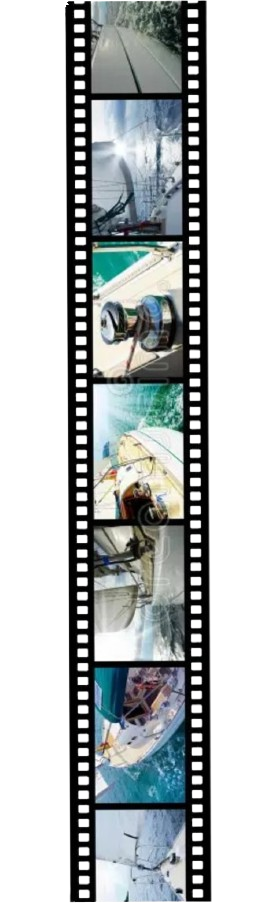
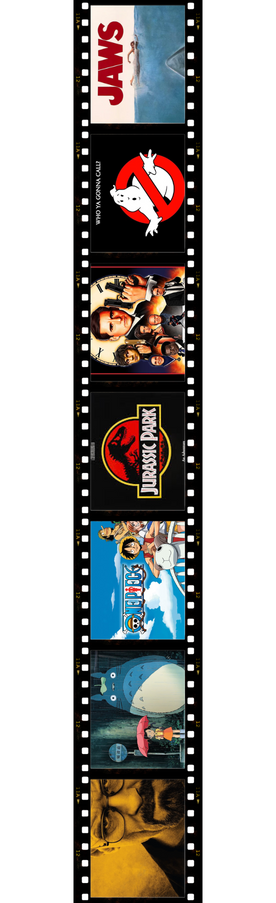
changed film strips, added popups, removed register.php gn isa ko nalang sa login.php para ndi na mag link sa register.php

diff --git a/css/pages/login.css b/css/pages/login.css
@@ -88,35 +88,51 @@ body {
 }
 
 .film-container {
-  position: absolute;
-  top: 0;
-  left: 0;
-  right: 0;
-  bottom: 0;
-  width: 100%;
-  height: 100%;
-  overflow: hidden;
-  z-index: 1;
-  pointer-events: none;
-}
+      overflow: hidden; /* Ensure strips don't cause scrollbars */
+    }
 
-.film-strip {
-  position: absolute;
-  width: 400px;
-  height: 400%;
-  background: url(../../assets/figmastrips.png) repeat-y;
-  background-size: 100% auto;
-  opacity: 0.45;
-  animation: scrollFilm 30s linear infinite;
-}
+    /* Wrapper handles the rotation and position */
+    .film-wrapper {
+        position: absolute;
+        width: 500px; /* Width of the strip image */
+        height: 130%; /* Make it long enough to cross the screen */
+        z-index: 1;
+        pointer-events: none;
+    }
 
-.film-strip.left {
-  left: 1%;
-}
-.film-strip.right {
-  right: 1%;
-  animation-delay: -15s;
-}
+    /* Top Left - Rotated 35deg */
+    .top-left-wrapper {
+        top: -45%;
+        left: -10%;
+        transform: rotate(35deg);
+        transform-origin: center;
+    }
+
+    /* Bottom Right - Rotated 35deg */
+    .bottom-right-wrapper {
+        bottom: -45%;
+        right: -10%;
+        transform: rotate(35deg);
+        transform-origin: center;
+    }
+
+    /* The inner strip handles the infinite scrolling animation */
+    /* Since the parent is rotated, scrolling Y moves it diagonally */
+    .film-strip {
+        position: absolute;
+        top: 0;
+        left: 0;
+        width: 100%;
+        height: 400%; /* Very long to allow scrolling */
+        background: url(../../assets/figmastrips.png) repeat-y;
+        background-size: 100% auto;
+        opacity: 0.45;
+        animation: scrollFilm 40s linear infinite; /* Slightly slower for elegance */
+    }
+    
+    .delayed {
+        animation-delay: -20s;
+    }
 
 @keyframes scrollFilm {
   0% {
@@ -166,7 +182,7 @@ body {
 .logo {
   width: 62px;
   height: 62px;
-  background: var(--gradient-primary);
+  background: var(--primary);
   display: flex;
   justify-content: center;
   align-items: center;
@@ -177,7 +193,7 @@ body {
 }
 
 h1 {
-  color: var(--primary-foreground);
+  color: var(--primary);
   margin: 0 0 28px;
   font-size: 28px;
   font-weight: 700;
@@ -223,7 +239,7 @@ input:focus {
   padding: 14px;
   border: none;
   border-radius: 10px;
-  background: var(--gradient-primary);
+  background: var(--primary);
   color: var(--primary-foreground);
   font-size: 16px;
   font-weight: 600;
@@ -250,4 +266,41 @@ input:focus {
 }
 .signup a:hover {
   text-decoration: underline;
+}
+
+/* Pulsing Orb Animations */
+@keyframes pulse {
+  0%, 100% {
+    opacity: 1;
+  }
+  50% {
+    opacity: 0.5;
+  }
+}
+
+.orb {
+  position: absolute;
+  border-radius: 50%;
+  filter: blur(64px);
+  pointer-events: none;
+  z-index: -1;
+  background-color: hsl(270, 92%, 58%, 0.3);
+  animation: pulse 3.5s cubic-bezier(0.4, 0, 0.6, 1) infinite;
+}
+
+.orb-1 {
+  width: 28rem;
+  height: 25rem;
+  top: 55%;
+  left: 35%;
+  transform: translate(-50%, -50%);
+}
+
+.orb-2 {
+  width: 28rem;
+  height: 25rem;
+  top: 40%;
+  right: 35%;
+  transform: translate(50%, -50%);
+  animation-delay: 1s;
 }

diff --git a/pages/login.php b/pages/login.php
@@ -103,10 +103,17 @@ if ($_SERVER["REQUEST_METHOD"] == "POST") {
   <link rel="stylesheet" href="../css/pages/login.css" />
 </head>
 <body>
+  <div class="orb orb-1"></div>
+  <div class="orb orb-2"></div>
 
-  <div class="film-container">
-    <div class="film-strip left"></div>
-    <div class="film-strip right"></div>
+<div class="film-container">
+    <div class="film-wrapper top-left-wrapper">
+        <div class="film-strip"></div>
+    </div>
+    
+    <div class="film-wrapper bottom-right-wrapper">
+        <div class="film-strip delayed"></div>
+    </div>
   </div>
 
   <div class="overlay"></div>
